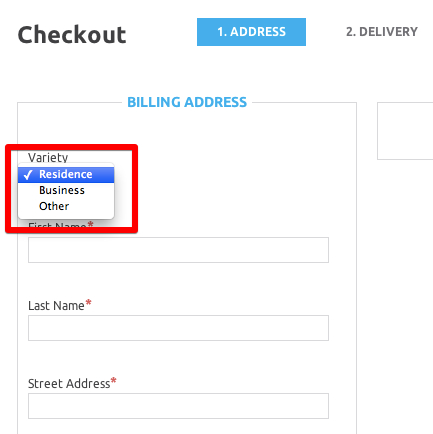
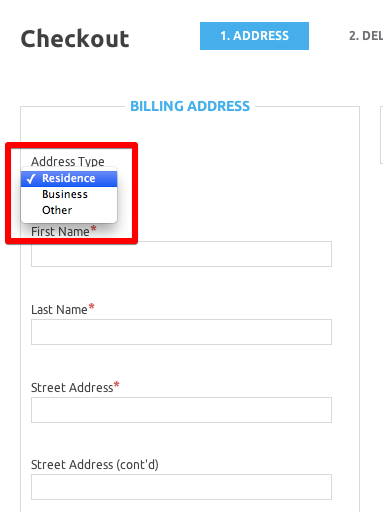
More work on the monster tutorial that ate New York.

diff --git a/content/integration/tutorials/creating_an_endpoint_with_custom_attributes.md b/content/integration/tutorials/creating_an_endpoint_with_custom_attributes.md
@@ -4,7 +4,7 @@ title: Creating an Endpoint with Custom Attributes
 
 ## Introduction
 
-One of the greatest things about both the Spree Commerce storefront is its flexibility. Using this full-featured open source e-commerce package means that you have total freedom to customize it to suit your business' own special needs.
+One of the greatest things about the Spree Commerce storefront is its flexibility. Using this full-featured open source e-commerce package means that you have total freedom to customize it to suit your business' own special needs.
 
 The Spree Commerce hub extends the customizations you make in your storefront's schema so that you can make use of them within your third-party services.
 
@@ -18,7 +18,7 @@ In this tutorial, you will:
 
 ## Prerequisites
 
-This tutorial assumes that you have installed [bundler](http://bundler.io/#getting-started) and [Sinatra](http://www.sinatrarb.com/intro.html), and that you have a working knowledge of [Ruby](http://www.ruby-lang.org/en/), [JSON](http://www.json.org/), [Sinatra](http://www.sinatrarb.com/), and [Rack](http://rack.rubyforge.org). It also assumes that you are using Rails 4 and Ruby 2.0.
+This tutorial assumes that you have installed [bundler](http://bundler.io/#getting-started), and that you have a working knowledge of [Ruby](http://www.ruby-lang.org/en/), [JSON](http://www.json.org/), and [Rack](http://rack.rubyforge.org). It also assumes that you are using Rails 4 and Ruby 2.0.
 
 ## Creating a Sandbox Store
 
@@ -50,10 +50,11 @@ Let's generate a migration to add the new field.
 $ bundle exec rails g migration add_variety_field_to_addresses
 ```
 
---- add_variety_field_to_addresses.rb ---
 ```ruby
-change
-  add_column :spree_addresses, :variety, :string
+class AddVarietyFieldToAddresses < ActiveRecord::Migration
+  def change
+    add_column :spree_addresses, :variety, :string
+  end
 end
 ```
 
@@ -92,14 +93,10 @@ We're going to use the [deface gem](https://github.com/spree/deface) to make cha
 ```erb
 <!-- insert_top 'div.inner' -->
 <p class="field" id=<%%="#{address_id}variety" %>>
-  <%%= form.label :variety, Spree.t(:variety) %><br />
+  <%%= form.label :variety, "Address Type" %><br />
   <%%= form.select :variety, ["Residence", "Business", "Other"] %>
 </p>
 ```
-
-$$$
-Input the translation for t.variety above into localeapp.
-$$$
 
 Now, when you go to your storefront and check out, you should see the new select box at the address entry step.
 
@@ -165,8 +162,57 @@ We can use `curl` to verify our order output format. To do so, you'll first need
 Running the following command:
 
 ```bash
-$ curl --header "X-Spree-Token: 31849d29d5d1323da1867981e36500a13826d9fdc701f66c" http://localhost:3000/api/orders.json
+$ curl --header "X-Spree-Token: your_spree_token" 
+  http://yourdomain.com/api/orders.json
 ```
+
++++
+If you are working in development mode, `yourdomain.com` is likely to be `localhost:3000`.
++++
+
+Your output should look something like this:
+
+```bash
+{"count":3,"current_page":1,"pages":1,"orders":[{"id":1,"number":"R123456789",
+"item_total":"15.99","total":"22.59","state":"complete","adjustment_total":"6.6",
+"user_id":null,"created_at":"2013-08-28T18:20:19Z",
+"updated_at":"2013-08-28T18:20:19Z","completed_at":"2013-08-27T18:20:19Z",
+"payment_total":"0.0","shipment_state":"pending","payment_state":"balance_due",
+"email":"spree@example.com","special_instructions":null,
+"token":"d32f89f869d639a7"},{"id":2,"number":"R987654321","item_total":"22.99",
+"total":"30.29","state":"complete","adjustment_total":"7.3","user_id":null,
+"created_at":"2013-08-28T18:20:19Z","updated_at":"2013-08-28T18:20:19Z",
+"completed_at":"2013-08-27T18:20:19Z","payment_total":"0.0",
+"shipment_state":"pending","payment_state":"balance_due",
+"email":"spree@example.com","special_instructions":null,
+"token":"dcf341a8ca660bd4"}, {"id":3,"number":"R555208170","item_total":"15.99",
+"total":"15.99","state":"cart","adjustment_total":"0.0","user_id":1,
+"created_at":"2013-08-28T21:07:00Z","updated_at":"2013-08-28T21:07:03Z",
+"completed_at":null,"payment_total":"0.0","shipment_state":null,
+"payment_state":null,"email":"spree@example.com","special_instructions":null,
+"token":"bd75e26374040274"}]}
+```
+
+None of this includes the details for a particular orders, so as yet, you don't see the custom fields. For that, we need to make a change to our API call:
+
+```bash
+$ curl --header "X-Spree-Token: your_spree_token" 
+  http://yourdomain.com/api/orders/R123456789.json
+```
+
+This command fetches the details for the order with the number `R123456789`. The return is very long (orders complex objects), but the part we care about is there:
+
+```bash
+"ship_address":{"id":1,"firstname":"Retha","lastname":"Murray",
+"full_name":"Retha Murray","address1":"8730 Dickens Keys","address2":"Apt. 049",
+"city":"Karenburgh","zipcode":"16804","phone":"425-355-5233","company":null,
+"alternative_phone":null,"country_id":49,"state_id":48,"state_name":null,
+"variety":null,"country":{"id":49,"iso_name":"UNITED STATES","iso":"US",
+"iso3":"USA","name":"United States","numcode":840},"state":{"id":48,
+"name":"New York","abbr":"NY","country_id":49}}
+```
+
+The `variety` field is there in the output (line 5). There is no value for it, because the order was part of the seed data and so preceded our modifications, but our integrations can still see and make use of this attribute.
 
 ## Creating Custom Endpoint
 
